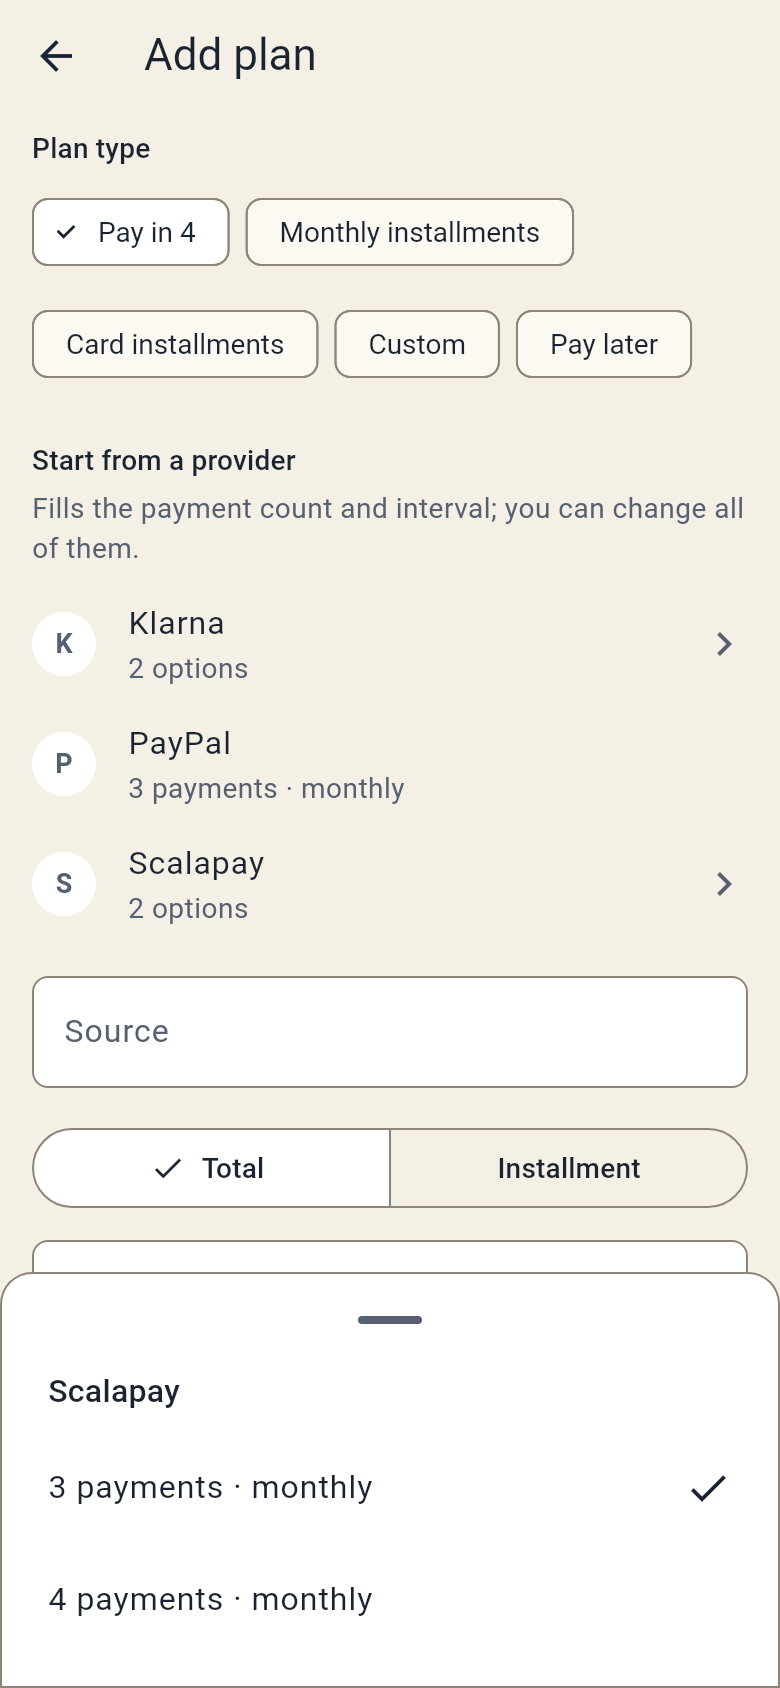
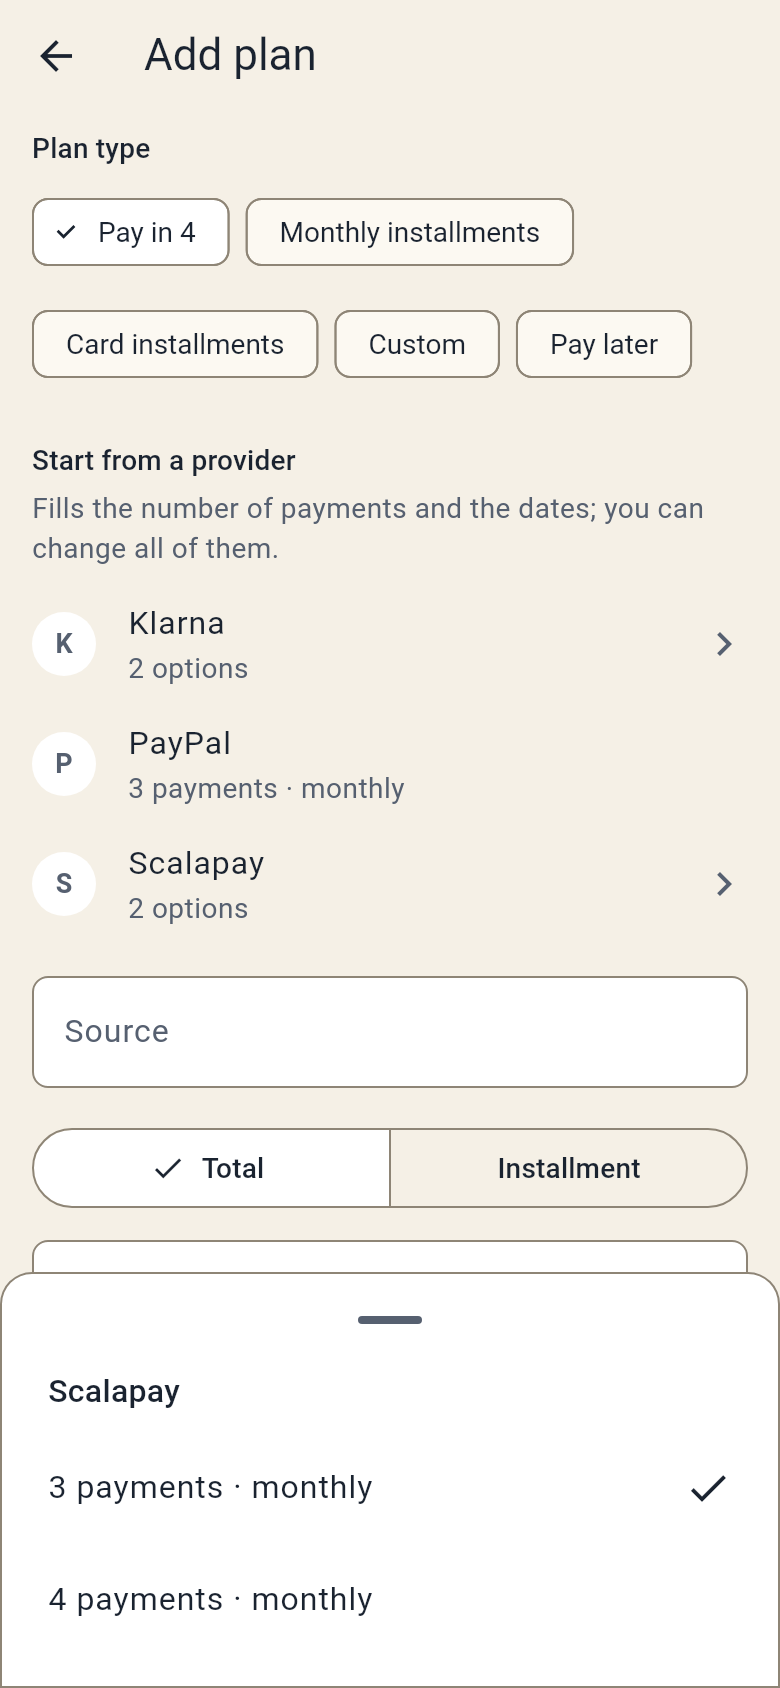
25: Review fixes (template link drops on type or source change, day 1-28, future check date, warm load, more tests)
Claude-Session: https://claude.ai/code/session_019bHdR4GN846SRgQ8vYbqRJ

Changed region(s): [[0.0615, 0.2773, 0.9538, 0.3389]]

diff --git a/test/features/provider_templates_test.dart b/test/features/provider_templates_test.dart
@@ -1,11 +1,15 @@
 import 'dart:convert';
 
+import 'package:flutter_riverpod/misc.dart' show Override;
 import 'package:flutter_test/flutter_test.dart';
+import 'package:kalan/app/locale.dart' show appLocalesProvider;
+import 'package:kalan/core/design/widgets.dart';
 import 'package:kalan/core/engine/engine.dart';
 import 'package:kalan/data/db/app_database.dart';
 import 'package:kalan/data/repositories/plan_repository.dart';
 import 'package:kalan/data/repositories/source_repository.dart';
 import 'package:kalan/features/plans/provider_templates_ui.dart';
+import 'package:kalan/l10n/app_locales.dart';
 import 'package:material_ui/material_ui.dart';
 
 import '../helpers/app_harness.dart';
@@ -59,6 +63,26 @@ final fixture = jsonEncode({
       ],
     },
     {
+      'country': 'CA',
+      'id': 'afterpay',
+      'name': 'Afterpay',
+      'sources': ['https://www.afterpay.com/en-CA/how-it-works'],
+      'checked': '2026-11-22',
+      'variants': [
+        {'kind': 'payIn4'},
+      ],
+    },
+    {
+      'country': 'ES',
+      'id': 'sequra',
+      'name': 'seQura',
+      'sources': ['https://www.sequra.com/es'],
+      'checked': '2026-11-22',
+      'variants': [
+        {'kind': 'payLater', 'payLater': 'days', 'payLaterValue': 7},
+      ],
+    },
+    {
       'country': 'JP',
       'id': 'paidy',
       'name': 'Paidy',
@@ -83,6 +107,8 @@ Future<AppDatabase> pumpRegion(
   Locale locale, {
   Future<void> Function(AppDatabase db)? seed,
   bool shippedFile = false,
+  String? appLanguage,
+  List<Override> extra = const [],
 }) {
   // A tall phone: the section, the form and its note fit without scrolling.
   tester.view.physicalSize = const Size(800, 1800);
@@ -92,12 +118,18 @@ Future<AppDatabase> pumpRegion(
     tester,
     locale: locale,
     seed: (db) async {
-      await seedSettings(db, currency: 'EUR', incomeMinor: 200000);
+      await seedSettings(
+        db,
+        currency: 'EUR',
+        incomeMinor: 200000,
+        localeCode: appLanguage,
+      );
       await seed?.call(db);
     },
     overrides: [
       if (!shippedFile)
         providerTemplatesSourceProvider.overrideWith((ref) async => fixture),
+      ...extra,
     ],
   );
 }
@@ -424,5 +456,118 @@ void main() {
       ),
       findsNothing,
     );
+    // Back to the template's type: the link stays dropped.
+    await tester.tap(find.widgetWithText(ChoiceChip, 'Monthly installments'));
+    await tester.pumpAndSettle();
+    expect(find.byKey(const ValueKey('template-note')), findsNothing);
+  });
+
+  testWidgets('source cleared and the same name typed again: still dropped', (
+    tester,
+  ) async {
+    await pumpRegion(tester, const Locale('en', 'IT'));
+    await openAdd(tester);
+    await tester.tap(find.text('Scalapay'));
+    await tester.pumpAndSettle();
+    await tester.enterText(find.byKey(const ValueKey('source')), '');
+    await tester.pumpAndSettle();
+    await tester.enterText(find.byKey(const ValueKey('source')), 'Scalapay');
+    await tester.pumpAndSettle();
+    expect(find.byKey(const ValueKey('template-note')), findsNothing);
+  });
+
+  testWidgets('the app language set in Settings does not change the list', (
+    tester,
+  ) async {
+    // Phone in Turkish, Italian region; Kalan set to English.
+    await pumpRegion(tester, const Locale('tr', 'IT'), appLanguage: 'en');
+    await openAdd(tester);
+    expect(find.text('Start from a provider'), findsOneWidget);
+    expect(find.text('Klarna'), findsOneWidget);
+    expect(find.text('Scalapay'), findsOneWidget);
+  });
+
+  testWidgets('Pay in 4 template: the type and every 2 weeks', (tester) async {
+    await pumpRegion(tester, const Locale('en', 'CA'));
+    await openAdd(tester);
+    // Start from another type: the template switches it.
+    await tester.tap(find.widgetWithText(ChoiceChip, 'Custom'));
+    await tester.pumpAndSettle();
+    expect(find.text('4 payments · every 2 weeks'), findsOneWidget);
+    await tester.tap(find.text('Afterpay'));
+    await tester.pumpAndSettle();
+    expect(chipSelected(tester, 'Pay in 4'), isTrue);
+    expect(chipSelected(tester, 'Every 2 weeks'), isTrue);
+    expect(fieldText(tester, 'source'), 'Afterpay');
+    expect(visibleInputCount(tester), 3);
+    expect(find.byKey(const ValueKey('template-note')), findsOneWidget);
+  });
+
+  testWidgets('Pay later in 7 days: the day count chip and its number', (
+    tester,
+  ) async {
+    await pumpRegion(tester, const Locale('en', 'ES'));
+    await openAdd(tester);
+    expect(find.text('One payment · 7 days later'), findsOneWidget);
+    await tester.tap(find.text('seQura'));
+    await tester.pumpAndSettle();
+    expect(chipSelected(tester, 'Pay later'), isTrue);
+    expect(chipSelected(tester, 'Number of days'), isTrue);
+    expect(
+      tester
+          .widget<TextField>(
+            find.descendant(
+              of: find.byKey(const ValueKey('pay-later-number')),
+              matching: find.byType(TextField),
+            ),
+          )
+          .controller!
+          .text,
+      '7',
+    );
+    expect(find.text('Due on Nov 27, 2026'), findsOneWidget);
+  });
+
+  testWidgets('rows and sheet meet the tap target guidelines', (tester) async {
+    final handle = tester.ensureSemantics();
+    await pumpRegion(tester, const Locale('en', 'ID'));
+    await openAdd(tester);
+    await expectLater(tester, meetsGuideline(androidTapTargetGuideline));
+    await expectLater(tester, meetsGuideline(iOSTapTargetGuideline));
+    await tester.tap(find.text('Kredivo'));
+    await tester.pumpAndSettle();
+    await expectLater(tester, meetsGuideline(androidTapTargetGuideline));
+    await expectLater(tester, meetsGuideline(iOSTapTargetGuideline));
+    handle.dispose();
+  });
+
+  testWidgets('right to left: the section and sheet in Arabic, UAE', (
+    tester,
+  ) async {
+    final arabicOpen = [
+      for (final l in appLocales)
+        l.code == 'ar' ? l.withStatus(LocaleStatus.reviewed) : l,
+    ];
+    await pumpRegion(
+      tester,
+      const Locale('ar', 'AE'),
+      shippedFile: true,
+      extra: [appLocalesProvider.overrideWithValue(arabicOpen)],
+    );
+    await tester.tap(find.byType(FloatingActionButton));
+    await tester.pumpAndSettle();
+    final row = find.byKey(const ValueKey('provider-tabby'));
+    expect(row, findsOneWidget);
+    expect(Directionality.of(tester.element(row)), TextDirection.rtl);
+    // The letter badge sits at the start: on the right.
+    final badge = find.descendant(of: row, matching: find.byType(LetterBadge));
+    expect(
+      tester.getCenter(badge).dx,
+      greaterThan(tester.getCenter(find.text('Tabby')).dx),
+    );
+    await tester.tap(row);
+    await tester.pumpAndSettle();
+    expect(find.byKey(const ValueKey('template-note')), findsOneWidget);
+    expect(tester.takeException(), isNull);
   });
 }

diff --git a/test/core/templates/provider_templates_test.dart b/test/core/templates/provider_templates_test.dart
@@ -6,6 +6,8 @@ import 'package:kalan/core/engine/engine.dart';
 import 'package:kalan/core/templates/provider_templates.dart';
 import 'package:kalan/l10n/app_locales.dart';
 
+import '../../../tool/check_provider_templates.dart' show staleWarning;
+
 LocalDate d(int y, int m, int day) => LocalDate(y, m, day);
 
 final _file = File(providerTemplatesAsset).readAsStringSync();
@@ -238,6 +240,14 @@ void main() {
           'firstDay': 27,
         },
         {'kind': 'monthly', 'count': 3, 'interval': 'sameDay', 'first': 'eom'},
+        // Day 29-31 would move to a month end in short months.
+        {
+          'kind': 'monthly',
+          'count': 3,
+          'interval': 'sameDay',
+          'first': 'nextMonthDay',
+          'firstDay': 29,
+        },
         {'kind': 'payIn4', 'count': 3},
         {'kind': 'payLater', 'payLater': 'endOfMonth', 'payLaterValue': 1},
         {'kind': 'payLater', 'payLater': 'days', 'payLaterValue': 181},
@@ -392,16 +402,30 @@ void main() {
           _template(country: 'ES', extra: {'checked': '2026-06-22'}),
         ]),
       );
-      expect(staleTemplateWarnings(all, today), [
+      final stale = staleTemplates(all, today);
+      expect(stale.map((t) => t.country), ['IT']);
+      expect(
+        staleWarning(stale.single),
         'Şablon kontrol tarihi 6 aydan eski: Scalapay, IT',
-      ]);
+      );
     });
 
-    test('the shipped file is recent today', () {
-      expect(
-        staleTemplateWarnings(parseProviderTemplates(_file), today),
-        isEmpty,
+    test('a check date in the future is caught', () {
+      final all = parseProviderTemplates(
+        _wrap([
+          _template(extra: {'checked': '2062-11-22'}),
+        ]),
       );
+      expect(futureCheckedTemplates(all, today), hasLength(1));
+      expect(staleTemplates(all, today), isEmpty);
+    });
+
+    test('the shipped file: checked on or before today, none stale', () {
+      final now = DateTime.now();
+      final realToday = LocalDate(now.year, now.month, now.day);
+      final shipped = parseProviderTemplates(_file);
+      expect(futureCheckedTemplates(shipped, realToday), isEmpty);
+      expect(staleTemplates(shipped, today), isEmpty);
     });
   });
 

diff --git a/lib/core/templates/provider_templates.dart b/lib/core/templates/provider_templates.dart
@@ -359,7 +359,9 @@ TemplateVariant _variant(Object? value, String at) {
       };
       final int? firstDay;
       if (first == TemplateFirstPayment.nextMonthDay) {
-        firstDay = _int(m, 'firstDay', at, 1, 31);
+        // 1-28: every month has the day, so no payment moves to a month
+        // end (a provider moving day 29-31 to the 28th is not offered).
+        firstDay = _int(m, 'firstDay', at, 1, 28);
       } else {
         _absent(m, ['firstDay'], at);
         firstDay = null;
@@ -455,16 +457,24 @@ List<ProviderTemplate> templatesForRegion(
 bool isTemplateStale(LocalDate checked, LocalDate today) =>
     checked.addMonths(staleAfterMonths) < today;
 
-/// The CI warning for each stale template ("Şablon kontrol tarihi 6 aydan
-/// eski: Scalapay, IT"), in file order. Empty when all are recent.
-List<String> staleTemplateWarnings(
+/// The templates whose check date is more than [staleAfterMonths] months
+/// before [today], in file order (the CI check warns about each).
+List<ProviderTemplate> staleTemplates(
   List<ProviderTemplate> all,
   LocalDate today,
 ) => [
   for (final t in all)
-    if (isTemplateStale(t.checked, today))
-      'Şablon kontrol tarihi $staleAfterMonths aydan eski: '
-          '${t.name}, ${t.country}',
+    if (isTemplateStale(t.checked, today)) t,
+];
+
+/// The templates checked after [today]: a typo that would silence the
+/// six-month check.
+List<ProviderTemplate> futureCheckedTemplates(
+  List<ProviderTemplate> all,
+  LocalDate today,
+) => [
+  for (final t in all)
+    if (t.checked > today) t,
 ];
 
 // Names ----------------------------------------------------------------------

diff --git a/lib/features/plans/add_plan_screen.dart b/lib/features/plans/add_plan_screen.dart
@@ -169,6 +169,25 @@ class _AddPlanScreenState extends ConsumerState<AddPlanScreen> {
     for (final c in _payLater.controllers) {
       c.addListener(_refresh);
     }
+    _source.addListener(_dropTemplateIfRenamed);
+    _payLater.source.addListener(_dropTemplateIfRenamed);
+  }
+
+  /// Ends the link to a template: its note and check go; the values it
+  /// filled stay.
+  void _dropTemplate() {
+    _template = null;
+    _templateSourceName = null;
+  }
+
+  /// Another source typed after a template, even one later typed back:
+  /// the provider is no longer the template's.
+  void _dropTemplateIfRenamed() {
+    final name = _templateSourceName;
+    if (name == null || _activeTemplate != null) return;
+    final t = _template;
+    if (t == null || _modeOf(t.variant) != _mode) return;
+    setState(_dropTemplate);
   }
 
   /// The mode a template variant fills.
@@ -645,6 +664,10 @@ class _AddPlanScreenState extends ConsumerState<AddPlanScreen> {
                 (AddMode.payLater, l10n.kindPayLater),
               ],
               onSelected: (m) => setState(() {
+                // Another type ends the link to a template (25).
+                if (_template case final t? when _modeOf(t.variant) != m) {
+                  _dropTemplate();
+                }
                 _mode = m;
                 _suggestNextDate();
               }),

diff --git a/tool/check_provider_templates.dart b/tool/check_provider_templates.dart
@@ -26,12 +26,25 @@ void main(List<String> args) {
     exitCode = 1;
     return;
   }
-  final warnings = staleTemplateWarnings(templates, today);
-  for (final w in warnings) {
-    stdout.writeln('::warning file=$providerTemplatesAsset::$w');
+  final stale = staleTemplates(templates, today);
+  for (final t in stale) {
+    stdout.writeln(
+      '::warning file=$providerTemplatesAsset::${staleWarning(t)}',
+    );
+  }
+  for (final t in futureCheckedTemplates(templates, today)) {
+    stdout.writeln(
+      '::warning file=$providerTemplatesAsset::Şablon kontrol tarihi '
+      'gelecekte: ${t.name}, ${t.country} (${t.checked})',
+    );
   }
   stdout.writeln(
-    '${templates.length} templates, ${warnings.length} older than '
+    '${templates.length} templates, ${stale.length} older than '
     '$staleAfterMonths months.',
   );
 }
+
+/// "Şablon kontrol tarihi 6 aydan eski: Scalapay, IT".
+String staleWarning(ProviderTemplate t) =>
+    'Şablon kontrol tarihi $staleAfterMonths aydan eski: '
+    '${t.name}, ${t.country}';

diff --git a/lib/app/app.dart b/lib/app/app.dart
@@ -10,6 +10,7 @@ import '../core/routing/routes.dart';
 import '../core/theme/kalan_theme.dart';
 import '../core/theme/theme_mode.dart';
 import '../entitlement/pro_controller.dart';
+import '../features/plans/provider_templates_ui.dart';
 import '../features/reminders/background.dart';
 import '../features/reminders/local_notifications.dart';
 import '../features/reminders/reminder_actions.dart';
@@ -47,6 +48,9 @@ class _KalanAppState extends ConsumerState<KalanApp> {
     // Pro: the saved state at once, the store checked in the background,
     // and purchase updates heard from the start (before onboarding too).
     ref.read(proControllerProvider);
+    // Provider templates (25) read from the app's own file now, so the
+    // add plan screen opens with its section already in place.
+    ref.read(providerTemplatesSourceProvider);
     // App start: schedule from the stored data right away.
     WidgetsBinding.instance.addPostFrameCallback((_) {
       if (!mounted) return;

diff --git a/lib/features/plans/provider_templates_ui.dart b/lib/features/plans/provider_templates_ui.dart
@@ -103,7 +103,9 @@ class ProviderStartSection extends StatelessWidget {
             : null,
       ),
     );
-    if (variant != null) onChosen((template: t, variant: variant));
+    if (variant != null && context.mounted) {
+      onChosen((template: t, variant: variant));
+    }
   }
 
   @override
